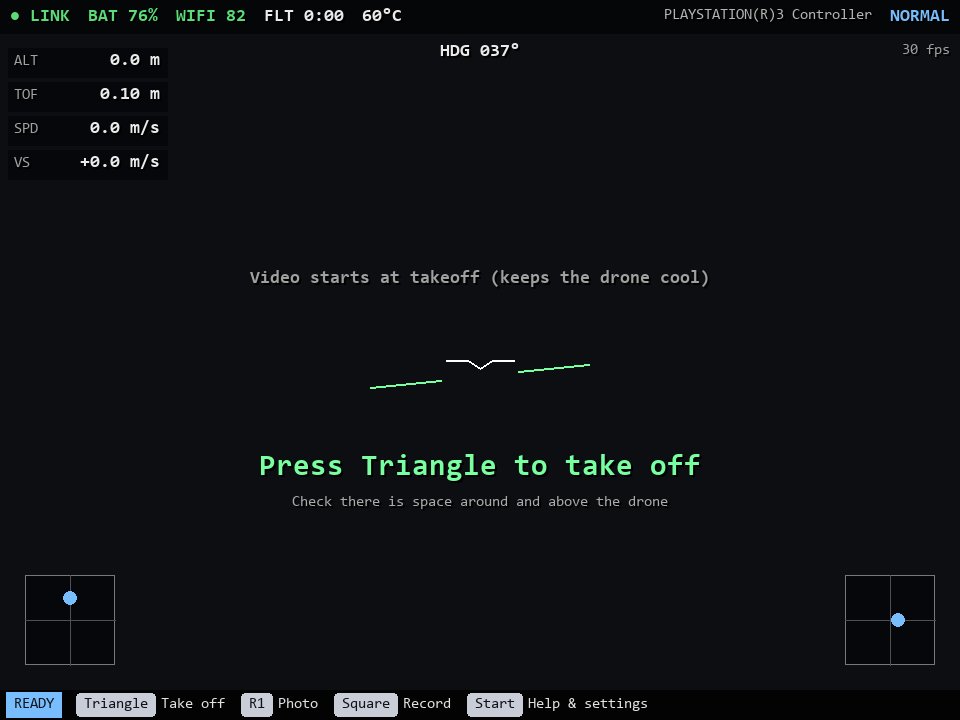
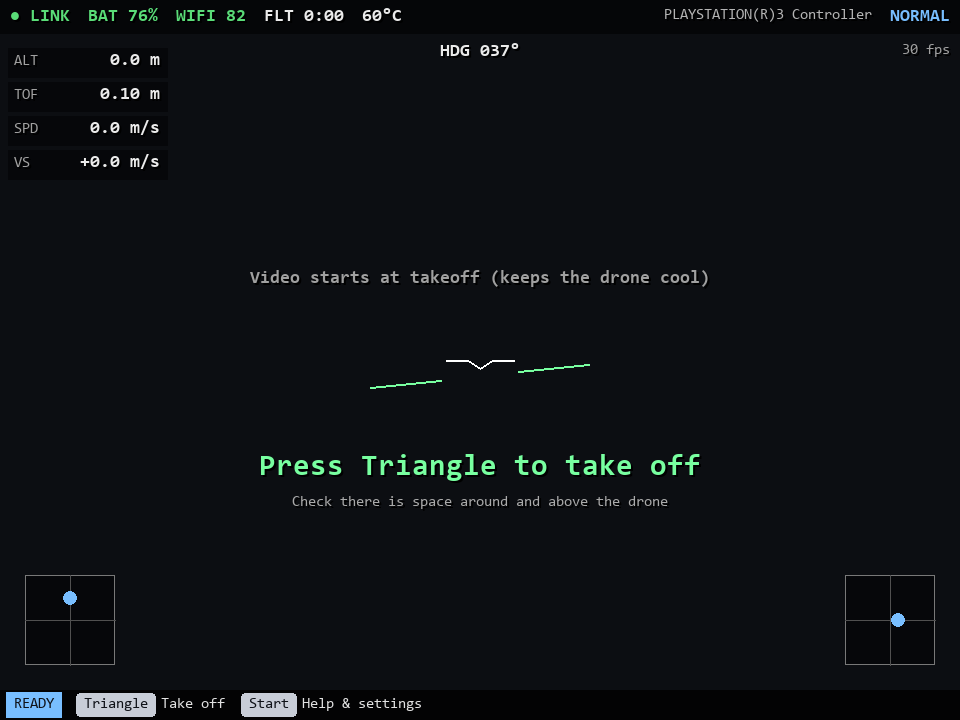
Only take photos and record while the camera is streaming
Photo and record now say why they can't (camera off, or starts at takeoff)
instead of saving an old frame or an empty recording, and the button guide
only shows them while there is a picture. A recording stops and is saved
when the video stops, e.g. after landing in "only while flying" mode.
Also drops the hint lines from the Video & Power page.

Changed region(s): [[0.25, 0.9472, 0.625, 1.0], [0.6562, 0.9778, 0.6875, 1.0]]

diff --git a/tello_revived.py b/tello_revived.py
@@ -547,9 +547,21 @@ class App:
         if (section == "drone" or section == "power" and key in stream_keys) and self.tello.session:
             threading.Thread(target=self.tello.apply_stream_settings, daemon=True).start()
 
+    def camera_live(self):
+        """True while the stream is wanted and frames are actually arriving."""
+        return self.tello.want_video() and time.monotonic() - self.video.frame_time < 1.5
+
+    def camera_off_reason(self):
+        mode = self.settings["power"]["video"]
+        if mode == "off":
+            return "Camera is off (Settings > Video & Power)"
+        if not self.tello.want_video():
+            return "Camera starts at takeoff"
+        return "No video from the drone"
+
     def photo(self):
-        if not self.frame_surface:
-            return self.tello.log("No video frame to save")
+        if not self.camera_live():
+            return self.tello.log(f"No photo: {self.camera_off_reason()}")
         path = MEDIA_DIR / f"photo_{stamp()}.png"
         pygame.image.save(self.frame_surface, str(path))
         self.tello.log(f"Saved {path.name}")
@@ -558,6 +570,8 @@ class App:
         if self.video.recording:
             self.video.stop_recording()
             self.tello.log("Recording stopped - saving...")
+        elif not self.camera_live():
+            self.tello.log(f"Not recording: {self.camera_off_reason()}")
         else:
             self.video.start_recording(MEDIA_DIR / f"video_{stamp()}.h264")
             self.tello.log("Recording")
@@ -821,18 +835,26 @@ class App:
                 items.append((emergency, "EMERGENCY stop", red))
             items += [(b("land"), "Land", None),
                       (speed, f"Speed: {SPEED_NAMES[self.speed_idx]}", None),
-                      (b("photo"), "Photo", None),
-                      (b("record"), "Stop recording" if self.video.recording else "Record", None),
+                      *self.camera_items(b),
                       (b("flip"), "Hold: flips", None)] + help_items
             mode = ("LANDING", amber) if self.landing else ("FLYING", (90, 220, 120))
         elif t.connected:
-            items = [(b("takeoff"), "Take off", None), (b("photo"), "Photo", None),
-                     (b("record"), "Stop recording" if self.video.recording else "Record", None)] + help_items
+            items = [(b("takeoff"), "Take off", None), *self.camera_items(b)] + help_items
             mode = ("READY", (120, 190, 255))
         else:
             items = help_items + [(k("quit"), "Quit", None)]
             mode = ("OFFLINE", (150, 150, 150))
         return mode, [(btn, what, col) for btn, what, col in items if btn and btn != "-"]
+
+    def camera_items(self, b):
+        """Photo / record buttons, only while there is a picture (stop is always offered)."""
+        live = self.camera_live()
+        items = [(b("photo"), "Photo", None)] if live else []
+        if self.video.recording:
+            items.append((b("record"), "Stop recording", None))
+        elif live:
+            items.append((b("record"), "Record", None))
+        return items
 
     def draw_hint_bar(self):
         """Zellij-style strip of the buttons that matter right now."""
@@ -985,6 +1007,8 @@ class App:
                 else:
                     running = False
             self.check_battery()
+            if self.video.recording and not self.tello.want_video():
+                self.toggle_record()  # e.g. landed with video set to "only while flying"
             self.read_sticks()
             self.send_rc()
             if not minimized:  # nothing to see: skip drawing to save power

diff --git a/menu.py b/menu.py
@@ -85,11 +85,11 @@ class Menu:
                 reset("flight", "flight settings"),
             ]
         stream = [
-            Row("choice", "Stream resolution *", "power", "resolution",
+            Row("choice", "Stream resolution", "power", "resolution",
                 [("default", "Drone default"), ("high", "High (720p)"), ("low", "Low (480p)")]),
-            Row("choice", "Stream frame rate *", "power", "stream_fps",
+            Row("choice", "Stream frame rate", "power", "stream_fps",
                 [("default", "Drone default"), ("high", "High (30)"), ("middle", "Middle (15)"), ("low", "Low (5)")]),
-            Row("choice", "Stream bitrate *", "power", "bitrate",
+            Row("choice", "Stream bitrate", "power", "bitrate",
                 [("default", "Drone default"), ("auto", "Auto")] + [(str(n), f"{n} Mbps") for n in range(1, 6)]),
         ] if stream_settings_supported(self.settings) else []
         return [
@@ -100,10 +100,6 @@ class Menu:
             Row("choice", "Auto-land at battery", "power", "auto_land_battery",
                 [(0, "Off")] + [(n, f"{n}%") for n in (10, 15, 20, 25, 30)]),
             Row("number", "Low battery warning", "power", "low_battery_warning", lo=5, hi=50, step=5, fmt="{}%"),
-            Row("info", "* RoboMaster TT only; if it still says \"not supported\", update its firmware"
-                if stream else "Stream quality settings: RoboMaster TT only (Flight > Drone model)"),
-            Row("info", "\"Only while flying\" keeps the drone cool on the ground and saves battery;"),
-            Row("info", "a lower app frame rate saves PC battery."),
             reset("power", "video & power"),
         ]
 

diff --git a/README.md b/README.md
@@ -49,7 +49,7 @@ It shows the pad's buttons after you touch the pad and the keyboard's keys after
 
 ![Button guide for the keyboard](docs/screenshots/flight_keyboard.png)
 
-While landing, or after a landing fails, the emergency stop is added to the front. You can turn the bar off in **Settings → HUD**.
+Photo and Record only appear while the camera is streaming. With video set to **Only while flying**, that means after takeoff. A recording stops and is saved by itself when the video stops, for example after landing. While landing, or after a landing fails, the emergency stop is added to the front. You can turn the bar off in **Settings → HUD**.
 
 ## Default controls
 
